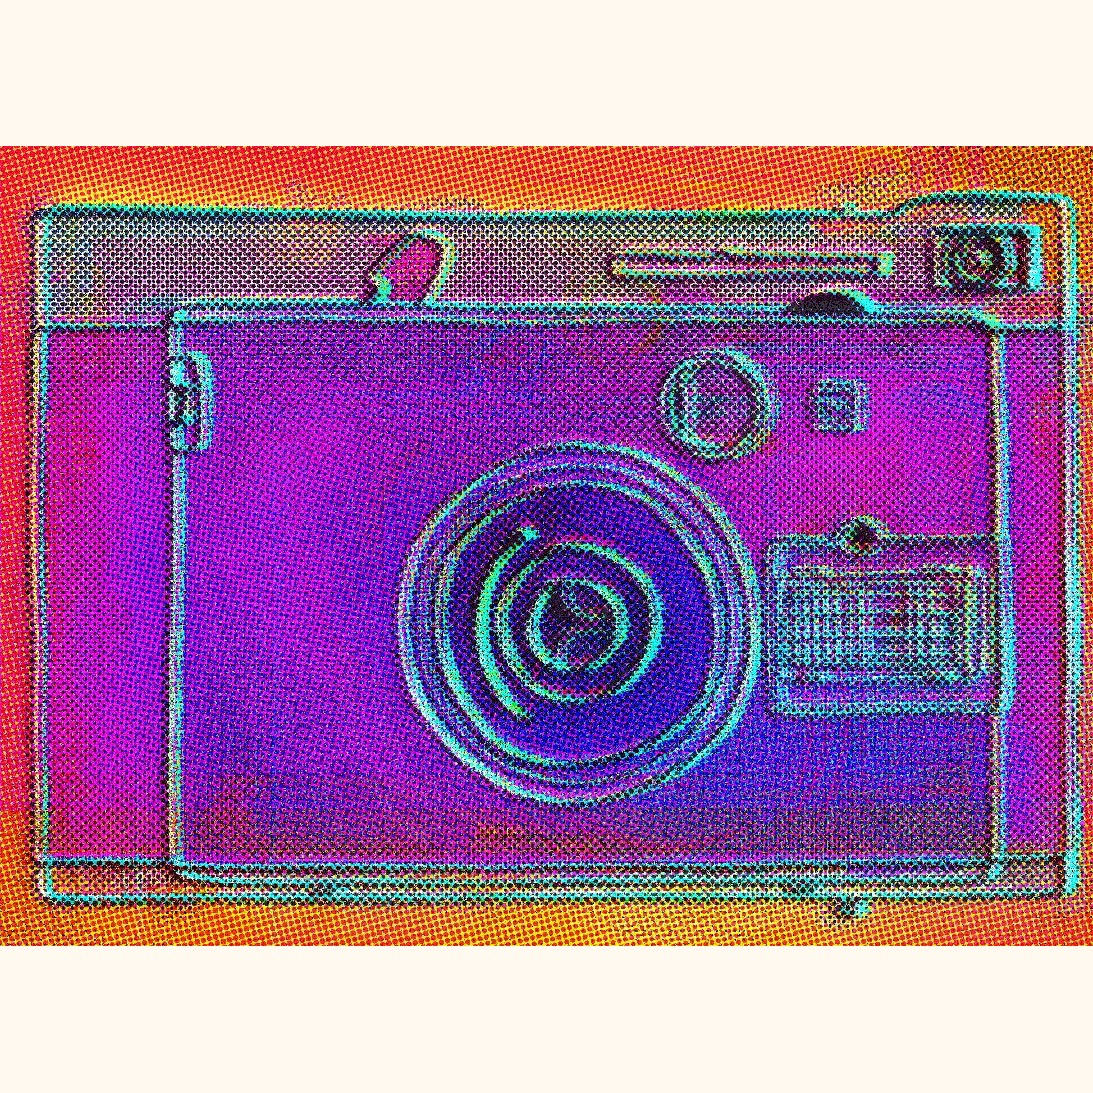
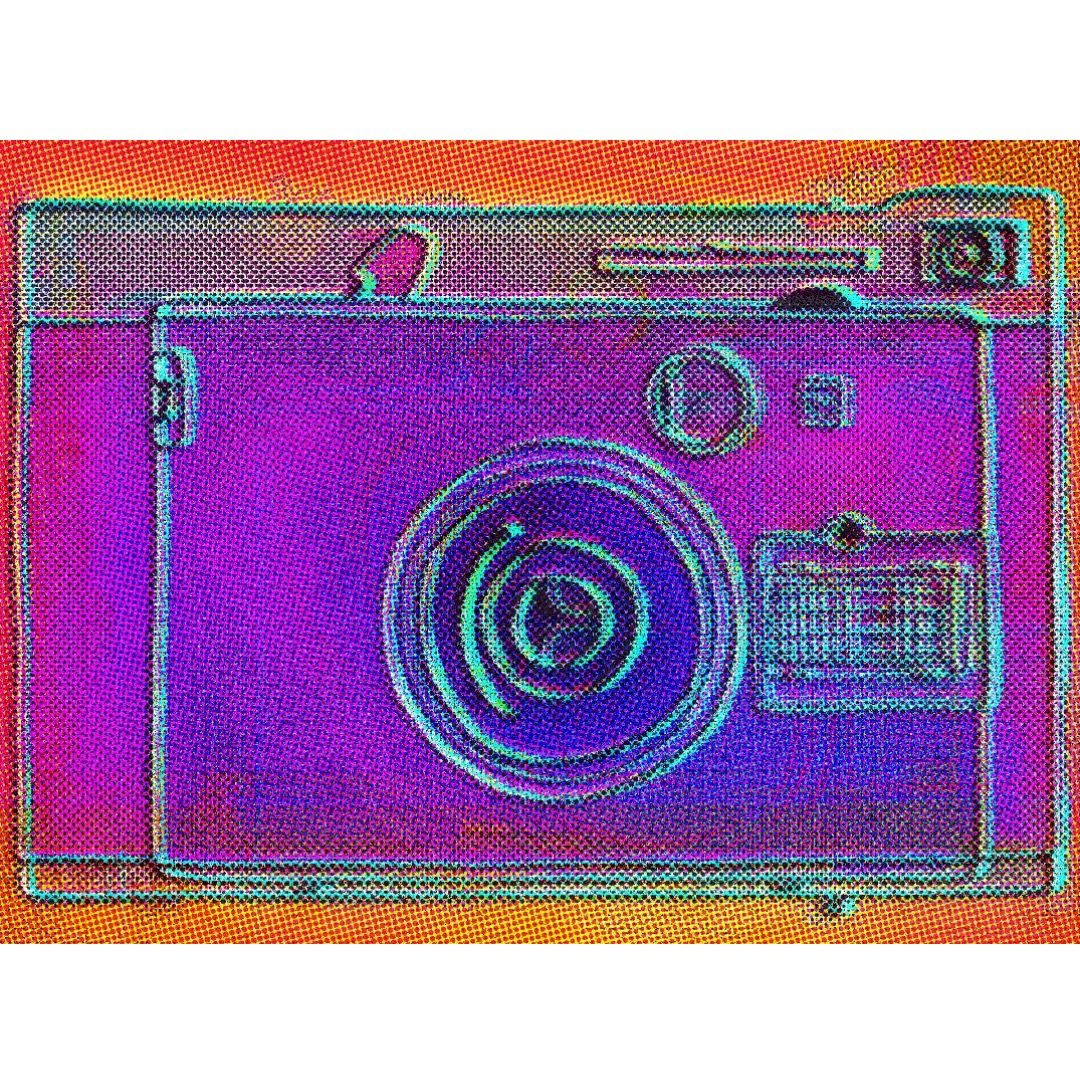
cropped. . .

diff --git a/pages/g/[g].js b/pages/g/[g].js
@@ -143,7 +143,7 @@ export default function Galerie({ fotos }) {
         <meta name="twitter:creator" content="@tezosmiami"/>
         <meta name="twitter:description" content="hicetnunc foto objkts. . ." />
         <meta name="twitter:title" content="fotographia"/>
-        <meta name="twitter:image" content="https://gateway.pinata.cloud/ipfs/QmQD9CjSQzLyGvw5ZaxaDbGr5mtHtn6wUbn3sHYRCbXsqF"/>
+        <meta name="twitter:image" content="https://gateway.pinata.cloud/ipfs/QmcqQHt9uK7mSyLXAaLjZUCR2rz4A3pFw53N7seZTR7vBL"/>
       </Head>
       <p><a href={`https://tzkt.io/${fotos[0]?.creator.address}`} target="blank"  rel="noopener noreferrer">
       {fotos[0]?.creator.name || fotos[0]?.creator.address.substr(0, 5) + "..." + fotos[0]?.creator.address.substr(-5)}</a></p>

diff --git a/pages/index.js b/pages/index.js
@@ -99,7 +99,7 @@ export default function Home({ fotos }) {
         <meta name="twitter:creator" content="@tezosmiami"/>
         <meta name="twitter:description" content="hicetnunc foto objkts. . ." />
         <meta name="twitter:title" content="fotographia"/>
-        <meta name="twitter:image" content="https://gateway.pinata.cloud/ipfs/QmQD9CjSQzLyGvw5ZaxaDbGr5mtHtn6wUbn3sHYRCbXsqF"/>
+        <meta name="twitter:image" content="https://gateway.pinata.cloud/ipfs/QmcqQHt9uK7mSyLXAaLjZUCR2rz4A3pFw53N7seZTR7vBL"/>
      </Head>
       {/* <p>new mints</p>
   <div className='container'>
